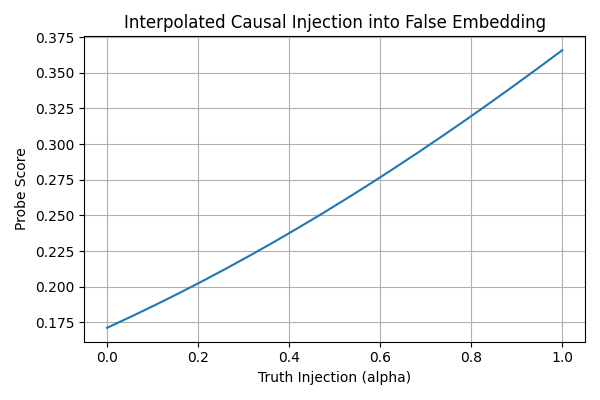
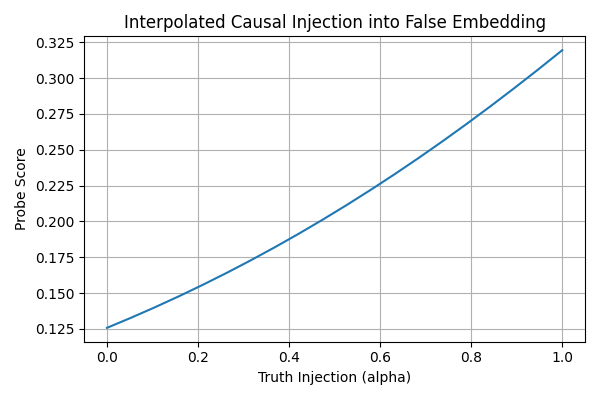
Allows for other BERTs

diff --git a/20250422 Toy Model/main.py b/20250422 Toy Model/main.py
@@ -26,7 +26,7 @@ from sklearn.model_selection import train_test_split
 dataset_source = "truthfulqa"  # 'truthfulqa' or 'boolq' or 'both'
 
 # ✅ Model config
-bert_model_name = "bert-base-uncased"  # or "bert-base-uncased"
+bert_model_name = "bert-large-uncased"  # or "bert-base-uncased"
 
 # --------------------
 # ✅ Device setup (MPS on Mac)
